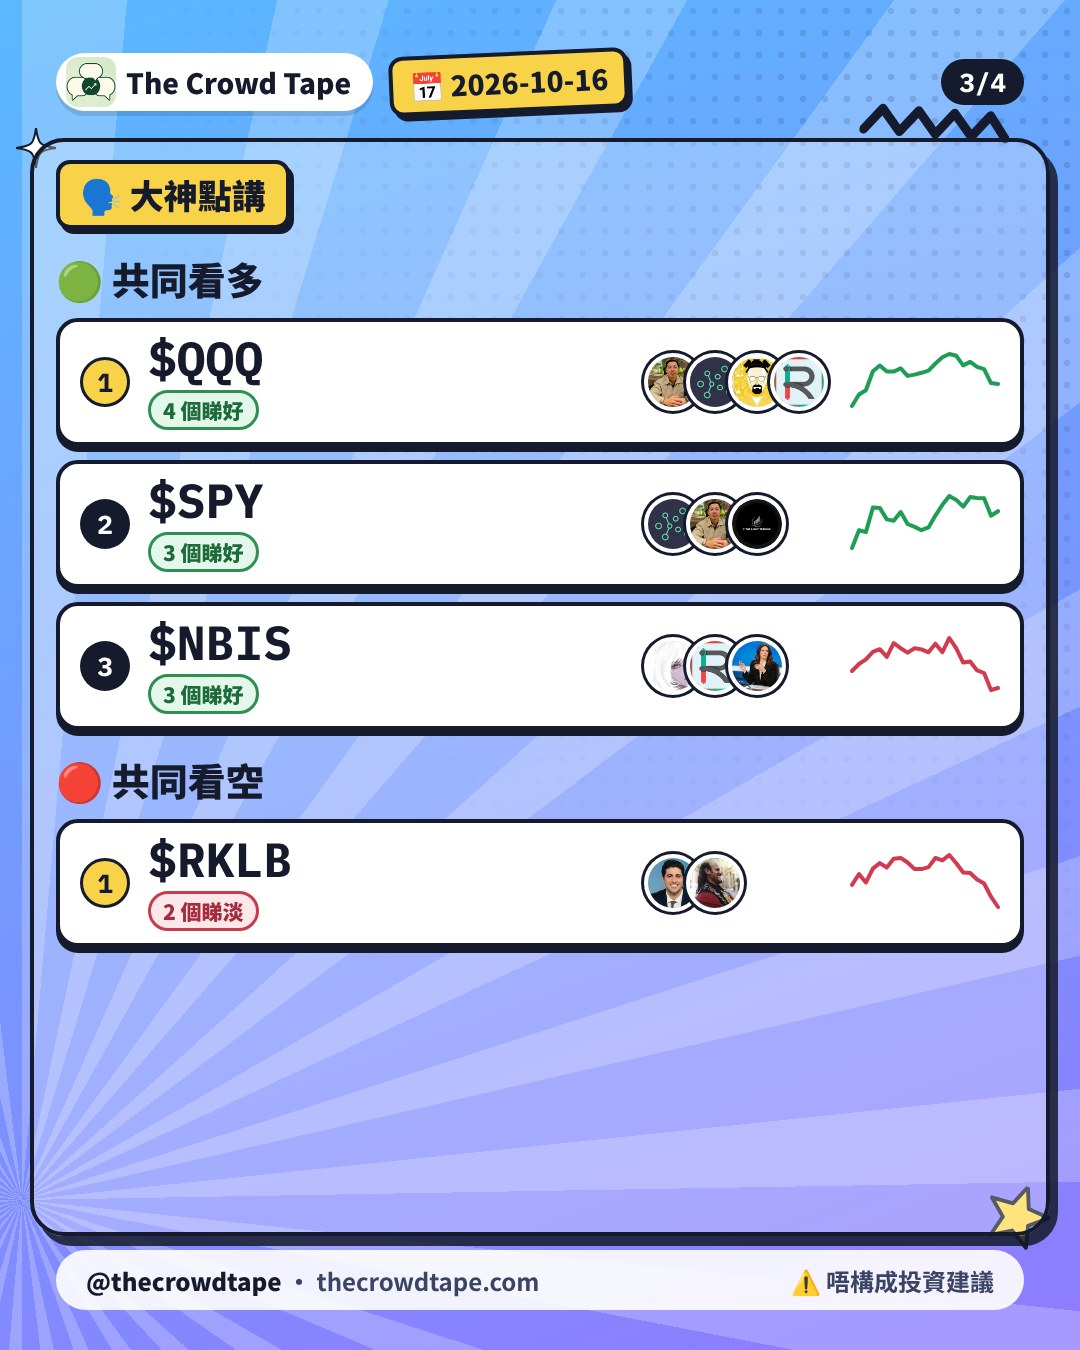
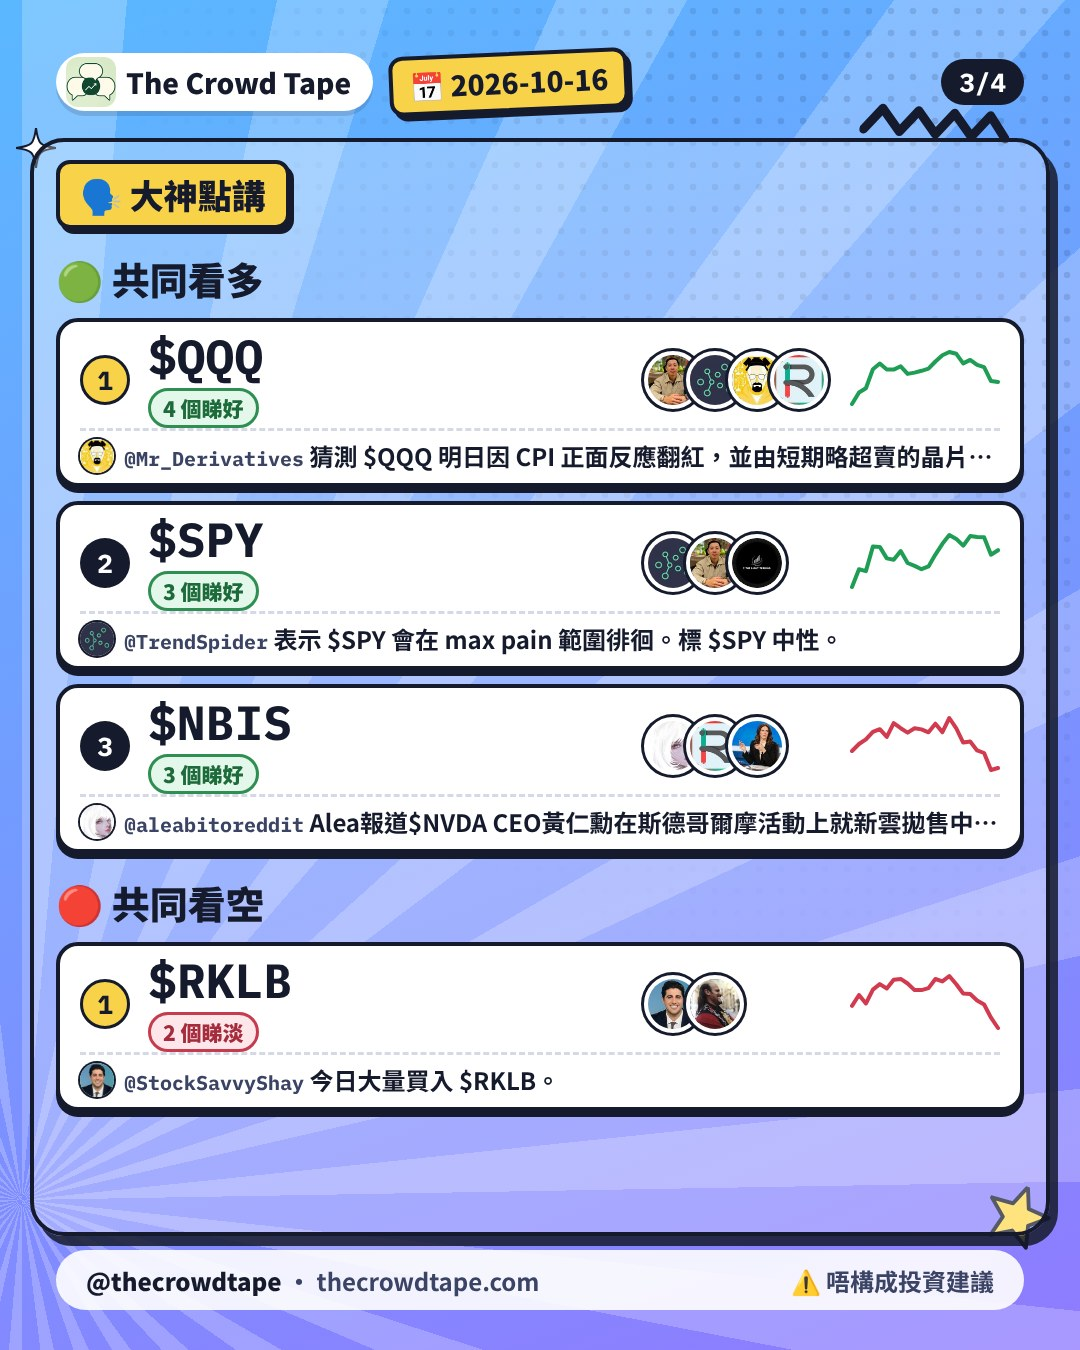
Refresh today's 12:30 carousel with featured posts under each stock (#91)
Claude-Session: https://claude.ai/code/session_017QG6eiWRHKQAn6dZso5K4R

diff --git a/social/index.html b/social/index.html
@@ -6,7 +6,7 @@ section{background:#fff;border-radius:14px;padding:16px;margin:16px 0;box-shadow
 img{width:100%;border-radius:10px}img.story{width:min(100%,320px);display:block;margin-top:6px}textarea{width:100%;box-sizing:border-box;font:inherit;margin-top:4px}h3{margin:18px 0 0;font-size:15px}
 button{margin-top:8px;padding:8px 16px;border-radius:999px;border:0;background:#151a2c;color:#fff;font:inherit}</style>
 <h1>2026-10-16 社交媒體貼文</h1><p>10/16 00:04 – 10/16 04:51 HKT｜製作時間 2026-10-16 07:08 HKT｜撳圖片可以下載｜<a href="/social/tutorial.html">週末教學貼文</a>｜<a href="/social/macro.html">星期六宏觀貼文</a></p>
-<style>.slot .grid{display:grid;grid-template-columns:repeat(4,1fr);gap:6px;margin-top:8px}.slot .grid img{border-radius:6px}details{margin-top:10px}summary{font-weight:700;cursor:pointer}h4{margin:12px 0 0;font-size:14px}</style><h2 style="margin-top:24px">今日三個時段（多圖帖，Grok bot 用呢度）</h2><section class="slot"><h2>12:30 今日快照</h2><p>製作時間 2026-10-16 13:23 HKT・有 IG Story（圖喺下面每個語言嘅舊格式部分）</p><details open><summary>中文・12:30 發</summary><div class="grid"><a href="https://thecrowdtape.com/og/c/2026-10-16-1230-zh-1.jpg" download><img src="https://thecrowdtape.com/og/c/2026-10-16-1230-zh-1.jpg" alt="1"></a><a href="https://thecrowdtape.com/og/c/2026-10-16-1230-zh-2.jpg" download><img src="https://thecrowdtape.com/og/c/2026-10-16-1230-zh-2.jpg" alt="2"></a><a href="https://thecrowdtape.com/og/c/2026-10-16-1230-zh-3.jpg" download><img src="https://thecrowdtape.com/og/c/2026-10-16-1230-zh-3.jpg" alt="3"></a><a href="https://thecrowdtape.com/og/c/2026-10-16-1230-zh-4.jpg" download><img src="https://thecrowdtape.com/og/c/2026-10-16-1230-zh-4.jpg" alt="4"></a></div><h4>X</h4><textarea readonly rows="7">10/16 X 大神共識快照： $NVDA 4 個帳號一齊睇好 📊
+<style>.slot .grid{display:grid;grid-template-columns:repeat(4,1fr);gap:6px;margin-top:8px}.slot .grid img{border-radius:6px}details{margin-top:10px}summary{font-weight:700;cursor:pointer}h4{margin:12px 0 0;font-size:14px}</style><h2 style="margin-top:24px">今日三個時段（多圖帖，Grok bot 用呢度）</h2><section class="slot"><h2>12:30 今日快照</h2><p>製作時間 2026-10-16 14:07 HKT・有 IG Story（圖喺下面每個語言嘅舊格式部分）</p><details open><summary>中文・12:30 發</summary><div class="grid"><a href="https://thecrowdtape.com/og/c/2026-10-16-1230-zh-1.jpg" download><img src="https://thecrowdtape.com/og/c/2026-10-16-1230-zh-1.jpg" alt="1"></a><a href="https://thecrowdtape.com/og/c/2026-10-16-1230-zh-2.jpg" download><img src="https://thecrowdtape.com/og/c/2026-10-16-1230-zh-2.jpg" alt="2"></a><a href="https://thecrowdtape.com/og/c/2026-10-16-1230-zh-3.jpg" download><img src="https://thecrowdtape.com/og/c/2026-10-16-1230-zh-3.jpg" alt="3"></a><a href="https://thecrowdtape.com/og/c/2026-10-16-1230-zh-4.jpg" download><img src="https://thecrowdtape.com/og/c/2026-10-16-1230-zh-4.jpg" alt="4"></a></div><h4>X</h4><textarea readonly rows="7">10/16 X 大神共識快照： $NVDA 4 個帳號一齊睇好 📊
 
 🔵 共同看多：5 隻・共同看空：0 隻
 ・4 個帳號： $NVDA
